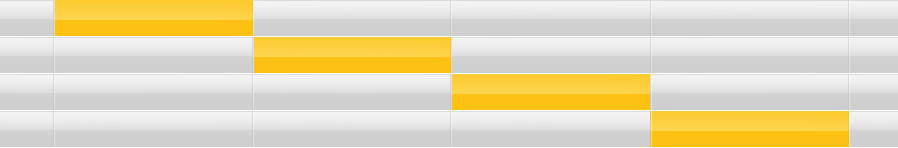
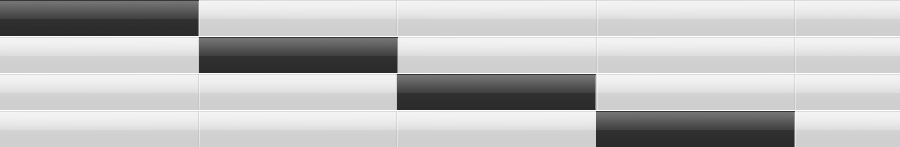
fix wizard tabs

Changed region(s): [[0.0, 0.0, 1.0, 1.0]]

diff --git a/public/stylesheets/wizard.css b/public/stylesheets/wizard.css
@@ -5,19 +5,13 @@ ul#clone-indicator {
   display: none;
 }
 
-ul#indicator-5, ul#indicator-6 {
-  width: 898px;
-  height: 36px;
-  margin-top: 4px;
-  padding-left: 14px;
-}
 
 ul#indicator-4{
-  width: 898px;
+  width: 884px;
   height: 36px;
   margin-top: 4px;
   margin-left: -1px;
-  padding-left: 55px;
+  padding-left: 14px;
 }
 
 ul#indicator-6 {
@@ -40,103 +34,19 @@ ul.edit-4-4 {
 }
 
 
-ul.step-1-5 {
-    background: url("/images/bg-5step-strip.png") no-repeat scroll 0px 0px;
+ul.step-1-4 {
+  background: url("/images/bg-4step-edit.png") no-repeat scroll 0px 0px;
 }
 
-ul.step-2-5 {
-    background: url("/images/bg-5step-strip.png") no-repeat scroll 0px -37px;
+ul.step-2-4 {
+  background: url("/images/bg-4step-edit.png") no-repeat scroll 0px -37px;
 }
 
-ul.step-3-5 {
-    background: url("/images/bg-5step-strip.png") no-repeat scroll 0px -74px;
-
+ul.step-3-4 {
+  background: url("/images/bg-4step-edit.png") no-repeat scroll 0px -74px;
 }
-
-ul.step-4-5 {
-    background: url("/images/bg-5step-strip.png") no-repeat scroll 0px -111px;
-}
-
-ul.step-5-5 {
-    background: url("/images/bg-5step-strip.png") no-repeat scroll 0px -148px;
-}
-
-
-ul.edit-1-5 {
-    background: url("/images/bg-5step-edit.png") no-repeat scroll 0px 0px;
-}
-
-ul.edit-2-5 {
-    background: url("/images/bg-5step-edit.png") no-repeat scroll 0px -37px;
-}
-
-ul.edit-3-5 {
-    background: url("/images/bg-5step-edit.png") no-repeat scroll 0px -74px;
-
-}
-
-ul.edit-4-5 {
-    background: url("/images/bg-5step-edit.png") no-repeat scroll 0px -111px;
-}
-
-ul.edit-5-5 {
-    background: url("/images/bg-5step-edit.png") no-repeat scroll 0px -148px;
-}
-
-
-
-
-
-ul.step-1-6 {
-    background: url("/images/bg-6step-strip.png") no-repeat scroll 0px 0px;
-}
-
-ul.step-2-6 {
-    background: url("/images/bg-6step-strip.png") no-repeat scroll 0px -37px;
-}
-
-ul.step-3-6 {
-    background: url("/images/bg-6step-strip.png") no-repeat scroll 0px -74px;
-}
-
-ul.step-4-6 {
-    background: url("/images/bg-6step-strip.png") no-repeat scroll 0px -111px;
-}
-
-ul.step-5-6 {
-    background: url("/images/bg-6step-strip.png") no-repeat scroll 0px -148px;
-}
-
-ul.step-6-6 {
-    background: url("/images/bg-6step-strip.png") no-repeat scroll 0px -185px;
-}
-
-
-
-
-
-ul.edit-1-6 {
-    background: url("/images/bg-6step-edit.png") no-repeat scroll 0px 0px;
-}
-
-ul.edit-2-6 {
-    background: url("/images/bg-6step-edit.png") no-repeat scroll 0px -37px;
-}
-
-ul.edit-3-6 {
-    background: url("/images/bg-6step-edit.png") no-repeat scroll 0px -74px;
-}
-
-ul.edit-4-6 {
-    background: url("/images/bg-6step-edit.png") no-repeat scroll 0px -111px;
-}
-
-ul.edit-5-6 {
-    background: url("/images/bg-6step-edit.png") no-repeat scroll 0px -148px;
-}
-
-ul.edit-6-6 {
-    background: url("/images/bg-6step-edit.png") no-repeat scroll 0px -185px;
+ul.step-4-4 {
+  background: url("/images/bg-4step-edit.png") no-repeat scroll 0px -111px;
 }
 
 
@@ -146,7 +56,7 @@ ul.edit-6-6 {
 
 ul#indicator-4 li.tab {
   float: left;
-  padding: 13px 19px 0 0;
+  padding: 8px 19px 0 0;
   width: 179px;
   font-size: 11px;
   font-weight: 400;
@@ -159,53 +69,22 @@ ul#indicator-4 li.tab {
 }
 
 
-ul#indicator-5 li.tab {
-  float: left;
-  padding: 8px 19px 0 0;
-  width: 139px;
-  font-size: 11px;
-  font-weight: 400;
-  color: #646464;
-  text-align: center;
-  text-transform: uppercase;
-  cursor: pointer;
-  overflow: hidden;
-  height: 19px;
-}
 
 
-
-ul#indicator-6 li.tab {
-  float: left;
-  padding: 8px 18px 0 0;
-  width: 115px;
-  font-size: 11px;
-  font-weight: 400;
-  color: #646464;
-  text-align: center;
-  text-transform: uppercase;
-  cursor: pointer;
-  overflow: hidden;
-  height: 19px;
-}
-
-
-
-
-ul#indicator-4 li.tab img.num, ul#indicator-5 li.tab img.num, ul#indicator-6 li.tab img.num {
+ul#indicator-4 li.tab img.num {
   vertical-align: -40%;
 }
 
-ul#indicator-4 li.tab a, ul#indicator-5 li.tab a, ul#indicator-6 li.tab a {
+ul#indicator-4 li.tab a{
   color: #646464;
   text-decoration: none;
 }
 
-ul#indicator-4 li.tab.on a, ul#indicator-5 li.tab.on a, ul#indicator-6 li.tab.on a {
+ul#indicator-4 li.tab.on a {
   color: #fff;
 }
 
-ul#indicator-4 li.next-done, ul#indicator-5 li.next-done, ul#indicator-6 li.next-done {
+ul#indicator-4 li.next-done {
   text-align: center;
   padding-top: 3px;
   padding-left: 2px;
@@ -214,24 +93,22 @@ ul#indicator-4 li.next-done, ul#indicator-5 li.next-done, ul#indicator-6 li.next
 }
 
 
-ul#indicator-4 li.next-done a.green-button, ul#indicator-5 li.next-done a.green-button, ul#indicator-6 li.next-done a.green-button {
+ul#indicator-4 li.next-done a.green-button {
     width:60px;
     margin-left:6px;
 }
 
-ul#indicator-4 li.next-done a.next-button, ul#indicator-5 li.next-done a.next-button, ul#indicator-6 li.next-done a.next-button {
+ul#indicator-4 li.next-done a.next-button {
     width:60px;
     margin-left:2px;
 }
 
 
-ul#indicator-5 li.tab.on, ul#indicator-6 li.tab.on {
-  color: #fff;
-}
 
-ul#indicator-4 li.tab.on, ul#indicator-4 li.tab:hover{
-    color: #000000;
+ul#indicator-4 li.tab.on{
+    color: #ffffff;
     font-weight: 400;
+    cursor:pointer;
 }
 
 

diff --git a/public/javascripts/zz/zz.drawers.js b/public/javascripts/zz/zz.drawers.js
@@ -54,7 +54,7 @@ zz.drawers = {
             name: {  //group album
                 id: 'name',
                 next: 'edit',
-                title: 'Name',
+                title: 'Name Album',
                 type: 'full',
 
                 init:   function(container, callback){
@@ -67,7 +67,7 @@ zz.drawers = {
 
             edit: {
                 next: 'group',
-                title: 'Edit',
+                title: 'Edit Album',
                 type: 'partial',
 
                 init:   function(container, callback){
@@ -80,7 +80,7 @@ zz.drawers = {
 
             group: {
                 next: 0,
-                title: 'Group',
+                title: 'Create Group & Share',
                 type: 'full',
 
 
